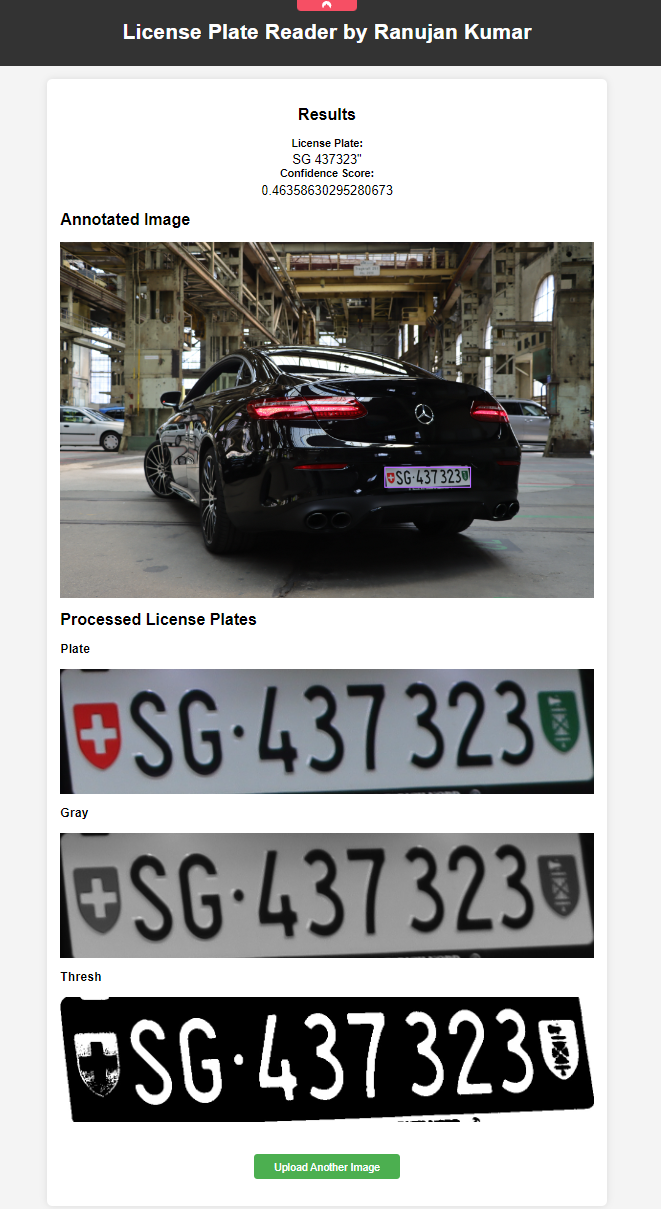
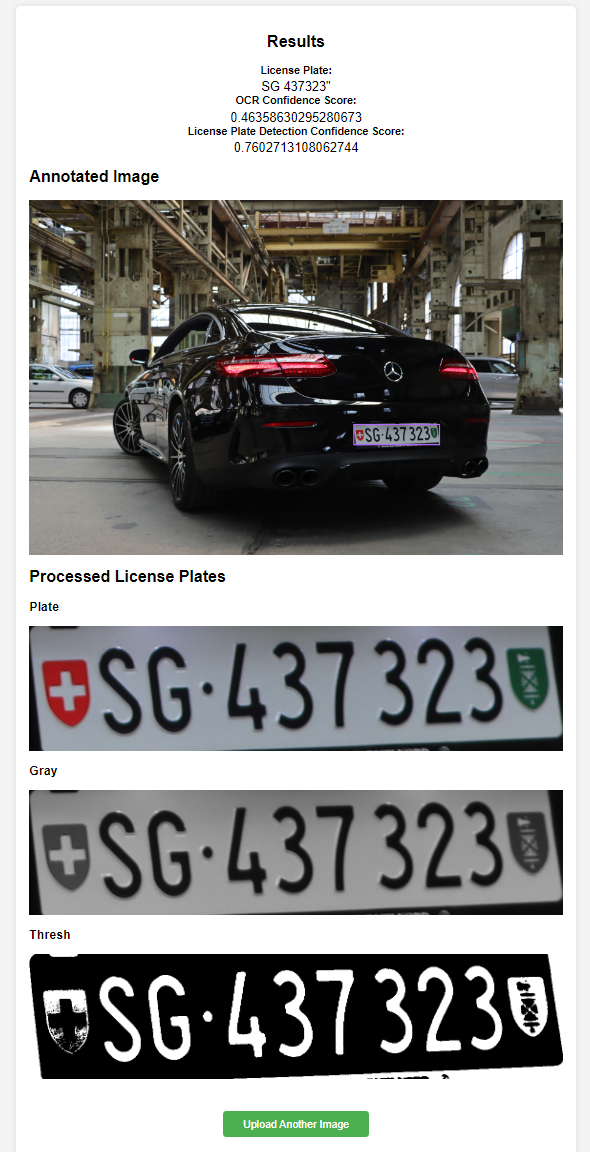
changes general

diff --git a/templates/result.html b/templates/result.html
@@ -48,15 +48,17 @@
     <main>
         <div class="results-container">
             <h2>Results</h2>
-            {% for text, score in result %}
-                {% if score == 0 %}
+            {% for text, ocr_score, detection_score in result %}
+                {% if ocr_score == 0 %}
                     <div class="result-text">No license plate detected or content could not be read. Please upload an image with better quality and ensure the license plate is visible.</div>
                 {% else %}
                     <div class="result-item">
                         <div class="result-title">License Plate:</div>
                         <div class="result-text">{{ text }}</div>
-                        <div class="result-title">Confidence Score:</div>
-                        <div class="result-text">{{ score }}</div>
+                        <div class="result-title">OCR Confidence Score:</div>
+                        <div class="result-text">{{ ocr_score }}</div>
+                        <div class="result-title">License Plate Detection Confidence Score:</div>
+                        <div class="result-text">{{ detection_score }}</div>
                     </div>
                 {% endif %}
             {% endfor %}

diff --git a/detection/main.py b/detection/main.py
@@ -53,7 +53,7 @@ def process_image(img_path, run_folder):
     detected = False
     output_paths = []
 
-    for bbox_ in bboxes:
+    for i, bbox_ in enumerate(bboxes):
         xc, yc, w, h = bbox_
         license_plate = img[int(yc - (h / 2)):int(yc + (h / 2)), int(xc - (w / 2)):int(xc + (w / 2)), :].copy()
         img = cv2.rectangle(img, (int(xc - (w / 2)), int(yc - (h / 2))), (int(xc + (w / 2)), int(yc + (h / 2))), (255, 105, 180), 15)
@@ -69,7 +69,7 @@ def process_image(img_path, run_folder):
             # Debugging the detected text and score
             print(f"Detected Text: {text}, Score: {text_score}")
             if text_score > 0.1:  # Ensure the score threshold is low enough to capture the detected text
-                results.append((text, text_score))
+                results.append((text, text_score, scores[i]))
                 detected = True
 
         license_plate_path = os.path.join(run_folder, f'{base_filename}_license_plate.jpg')
@@ -94,7 +94,7 @@ def process_image(img_path, run_folder):
     print("Output Paths:", output_paths)
 
     if not detected:
-        results.append(("No license plate detected. Please choose another image with higher quality, ensuring the whole car is visible.", 0))
+        results.append(("No license plate detected. Please choose another image with higher quality, ensuring the whole car is visible.", 0, 0))
 
     output_paths = [os.path.relpath(path, 'runs_done').replace("\\", "/") for path in output_paths if isinstance(path, str)]
 

diff --git a/README.md b/README.md
@@ -1,8 +1,11 @@
 #License Plate Recognition Project
 ------------------
+This is a license plate recognition project that involves training a model with a custom dataset to detect license plates in images. The trained model identifies the license plates, and with the help of OCR (Optical Character Recognition), it extracts the alphanumeric characters from the detected plates. The output includes the recognized text along with the confidence scores of both the OCR and the license plate recognition model.
+
 
 Python version = 3.10.11
 Requirements: [detection\requirements.txt](https://github.com/rankum26/licenseplate-recognition-kumarran26/blob/main/detection/requirements.txt)
+License Plate Recognition Training Repo: https://github.com/rankum26/licenseplate-recognition-training-kumarran26
 
 #Problem and Motivation
 ------------------
@@ -45,8 +48,8 @@ install requirements.txt
 To run the Flask application, use the following command:
 python app.py
 
-The application provides a frontend where you can upload an image. If you don't have images of cars with license plates, you can use the provided example images in the example_pictures folder. After uploading an image, click the green submit button. The model will attempt to recognize the license plate and extract the characters with OCR. The output will display the recognized characters along with the confidence score.
-Additionally, the page will show the uploaded image, the recognized plate, and a grayscale thresholded version of the plate. You can repeat the process by clicking "Upload another image."
+The application provides a frontend where you can upload an image. If you don't have images of cars with license plates, you can use the provided example images in the example_pictures folder. After uploading an image, click the green submit button. The model will attempt to recognize the license plate and extract the characters with OCR. OCR is used to extract the text from detected license plates in images. After the license plate is identified and its region is cropped from the image, the OCR engine (EasyOCR in this case) processes this cropped image to recognize and extract the alphanumeric characters on the license plate. I did not train the OCR model. I only trained the license plate recognition model. The extracted text is then displayed along with a confidence score, indicating the reliability of the OCR result.
+The result page will show also the uploaded image, the recognized plate, and a grayscale thresholded version of the plate. You can repeat the process by clicking "Upload another image."
 ![alt text](/README_pictures/image3.png)
 
 
